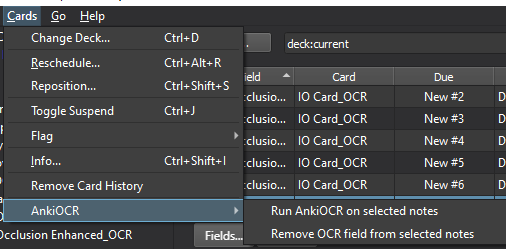
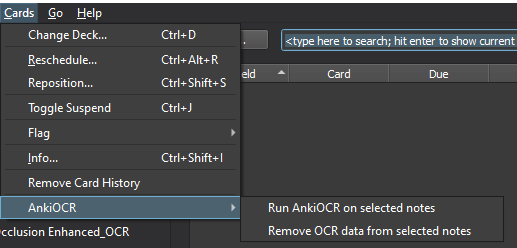
V0.3.0 update to use new ocr data output to tooltip

diff --git a/docs/AnkiWeb_README.html b/docs/AnkiWeb_README.html
@@ -4,8 +4,6 @@ Anki 2.1 addon to generate OCR text from images inside of Anki notes/cards. <b>N
 
 The aim of this addon was to generate searchable text for image-heavy notes, it is not intended to produce high quality, perfectly ordered text!
 
-Note that because this addon changes the note template, you will see a warning about changing the database and uploading to AnkiWeb. This is normal.
-
 <b> Features </b>
 <ul>
     - Convert many notes at once
@@ -44,11 +42,11 @@ This program is distributed in the hope that it will be useful but WITHOUT ANY W
 
 <img src="https://raw.githubusercontent.com/cfculhane/AnkiOCR/master/docs/menu.png">
 
-3. After processing, the notes will be updated with an additional 'OCR' field with the extracted text, example below:
+3. After processing, each of the images in the note will have the ocr data embedded in the `title` html tag, viewable as a tooltip:
 
-<img src="https://raw.githubusercontent.com/cfculhane/AnkiOCR/master/docs/update_field.png">
+<img src="https://raw.githubusercontent.com/cfculhane/AnkiOCR/master/docs/text_tooltip.png">
 
-4. If you want to remove the OCR field from any notes, select them and then use the "Remove OCR field from selected notes" option in the menu shown above
+4. If you want to remove the OCR data from any notes, select them and then use the "Remove OCR data from selected notes" option in the menu shown above
 
 <b> Known issues</b>
 <ul>
@@ -59,6 +57,11 @@ This program is distributed in the hope that it will be useful but WITHOUT ANY W
 
 <b> Changelog </b>
 <ul>
+    - 0.3.0 - 2020-10-06
+        - New method for storing the ocr text, now stores it in title attr of the img html tag
+        - Handle old verions of Anki not having different progressbar.update()
+    - 0.2.6 - 2020-10-06
+        - Handle old verions of Anki not having different progressbar.update()
     - 0.2.5 - 2020-10-06
         - Add alternate import method for Collection due to API changes in Anki
     - 0.2.4 - 2020-10-05

diff --git a/anki_ocr/ocr.py b/anki_ocr/ocr.py
@@ -1,12 +1,9 @@
 import logging
 import platform
-import re
 import sys
 from copy import deepcopy
 from pathlib import Path
 from typing import Dict, Sequence, Optional, List
-
-import anki
 
 try:
     from anki.collection import Collection
@@ -22,13 +19,18 @@ else:  # anki.exe or equivalent
     ANKI_ENV = True
     print("Running in anki")
 
+SCRIPT_DIR = Path(__file__).parent
+DEPS_DIR = SCRIPT_DIR / "deps"
+
 if ANKI_ENV is False:
+    sys.path.append(SCRIPT_DIR)
     ProgressManager = None
     import pytesseract
     from PIL import Image
     from reportlab.graphics import renderPM
     from svglib.svglib import svg2rlg
     from tqdm import tqdm
+    from .html_parser import FieldHTMLParser
 
 else:
     from aqt.progress import ProgressManager
@@ -38,13 +40,10 @@ else:
     renderPM = None
     svg2rlg = None
     from .utils import tqdm_null_wrapper as tqdm
+    from .html_parser import FieldHTMLParser
 
-SCRIPT_DIR = Path(__file__).parent
-DEPS_DIR = SCRIPT_DIR / "deps"
-
-logging_format = "%(asctime)s - %(name)s - %(levelname)s - %(message)s"
-logging.basicConfig(format=logging_format, level=logging.INFO)
 logger = logging.getLogger(__name__)
+FIELD_PARSER = FieldHTMLParser()
 
 
 class OCR:
@@ -62,43 +61,41 @@ class OCR:
         assert text_output_location in ["tooltip", "new_field"]
         self.text_output_location = text_output_location
 
-    def get_images_from_note(self, note):
-        pattern = r'(?:<img src=")(.*?)(?:"(?:>|\B))'
+    @staticmethod
+    def get_images_from_note(note):
         images = {}
         for field_name, field_content in note.items():
-            img_fnames = re.findall(pattern, field_content)
-            for img_fname in img_fnames:
-                images[Path(img_fname).stem] = {"path": Path(self.media_dir, img_fname),
-                                                "field": field_name}
+            images[field_name] = FIELD_PARSER.parse_images(field_content)
         return images
 
     def process_imgs(self, images: Dict):
-        for img_name, img_data in images.items():
-            logger.debug(f"Processing {img_data['path']} from field {img_data['field']}")
-            if img_data["path"].suffix == ".svg":
-                if ANKI_ENV is True:
-                    # TODO attempt to vendorize reportlab, svglib
-                    img_data["text"] = ""
-                    continue
+        for field_name, field_images in images.items():
+            for img_name, img_data in field_images.items():
+                logger.debug(f"Processing {img_name} from field {field_name}")
+                img_path = Path(self.media_dir, img_data["src"])
+                if img_path.suffix == ".svg":
+                    if ANKI_ENV is True:
+                        # TODO attempt to vendorize reportlab, svglib
+                        img_data["text"] = ""
+                        continue
+                    else:
+                        svg_draw = svg2rlg(str(img_path.absolute()))
+                        renderPM.drawToFile(svg_draw, "temp.png", fmt="PNG")
+                        img = Image.open("temp.png")
                 else:
-                    svg_draw = svg2rlg(str(img_data["path"].absolute()))
-                    renderPM.drawToFile(svg_draw, "temp.png", fmt="PNG")
-                    img = Image.open("temp.png")
-            else:
-                # img = Image.open(img_data["path"])
-                img = str(img_data["path"].absolute())
+                    # img = Image.open(img_path)
+                    img = str(img_path.absolute())
 
-            ocr_result = pytesseract.image_to_string(img, lang="+".join(self.languages))
-            ocr_result = "\n".join([line.strip() for line in ocr_result.splitlines() if line.strip() != ""])
-            img_data["text"] = ocr_result
+                ocr_result = pytesseract.image_to_string(img, lang="+".join(self.languages))
+                ocr_result = "\n".join([line.strip() for line in ocr_result.splitlines() if line.strip() != ""])
+                img_data["text"] = ocr_result
         return images
 
     @staticmethod
     def add_imgdata_to_note(note: Note, images: Dict, method="tooltip"):
         if method == "tooltip":
-            for img_name, img_data in images.items():
-                note[img_data["field"]] = note[img_data["field"]].replace(
-                    f'"{img_data["path"].name}"', f'"{img_data["path"].name}" title="{img_data["text"]}"')
+            for field_name, field_images in images.items():
+                note[field_name] = FIELD_PARSER.insert_ocr_text(images=field_images, field_text=note[field_name])
         elif method == "new_field":
             note["OCR"] = ""
             for img_name, img_data in images.items():
@@ -167,6 +164,11 @@ class OCR:
         # TODO Change this to process multiple note IDs at once?
         note = self.col.getNote(note_id)
         ocr_model = note.model()
+        images = self.get_images_from_note(note)
+        for field_name, field_text in note.items():
+            note[field_name] = FIELD_PARSER.remove_ocr_text(images[field_name], field_text)
+        note.flush()
+
         if self.is_OCR_note(note) is False:
             logger.info("Note is already NOT an OCR-type, no need to undo the conversion")
             return note
@@ -193,7 +195,11 @@ class OCR:
         # tqdm_out = TqdmToLogger(logger, level=logging.INFO)
         for i, note_id in tqdm(enumerate(note_ids), desc=f"Processing notes", total=len(note_ids)):
             if self.progress is not None:
-                self.progress.update(value=i, max=len(note_ids))
+                try:
+                    self.progress.update(value=i, max=len(note_ids))
+                except TypeError:  # old version of Qt/Anki
+                    pass
+
             note = self.col.getNote(note_id)
             if self.is_OCR_note(note) is True and overwrite_existing is False:
                 logger.info(f"Note id {note_id} is already processd. Set overwrite_existing=True to force reprocessing")
@@ -224,7 +230,7 @@ class OCR:
         # self.col.modSchema(check=True)
         self.ocr_process(note_ids=note_ids, overwrite_existing=overwrite_existing)
         self.col.reset()
-        logger.info("Databased saved and closed")
+        logger.info("Databased saved")
 
     def run_ocr_on_notes(self, note_ids: List[int], overwrite_existing=True):
         """ Main method for the ocr class. Runs OCR on a sequence of notes returned from a collection query.
@@ -255,23 +261,3 @@ class OCR:
 
         platform_name = platform.system()  # E.g. 'Windows'
         return exec_data[platform_name], platform_name
-
-
-# %%
-if __name__ == '__main__':
-    # Not to be run inside Anki
-    PROFILE_HOME = Path(r"C:\GitHub\anki\User 1")
-    cpath = PROFILE_HOME / "collection.anki2"
-    try:
-        collection = Collection(str(cpath), log=True)  # Collection is locked from here on
-    except anki.rsbackend.DBError:
-        print("Anki collection already open, attempting to continue")
-
-    ocr = OCR(col=collection)
-    QUERY = "tag:RG::MS::RG4.00_Lab"
-    QUERY = "tag:OCR"
-    # QUERY = ""
-    # ocr.run_ocr_on_query(QUERY)
-    # collection.close(save=True)
-    # note_ids_c = collection.findNotes(QUERY)
-    # ocr.remove_ocr_on_notes(note_ids_c)

diff --git a/anki_ocr/gui.py b/anki_ocr/gui.py
@@ -1,4 +1,4 @@
-# import the main window object (mw) from aqt
+import logging
 
 from anki.hooks import addHook
 from aqt import mw
@@ -9,34 +9,34 @@ from aqt.utils import showInfo, askUser, showCritical
 from ._vendor import pytesseract
 from .ocr import OCR
 
-# We're going to add a menu item below. First we want to create a function to
-# be called when the menu item is activated.
-CONFIG = mw.addonManager.getConfig(__name__)
+logger = logging.getLogger(__name__)
 
 
 def on_run_ocr(browser: Browser):
     selected_nids = browser.selectedNotes()
     num_notes = len(selected_nids)
+    config = mw.addonManager.getConfig(__name__)
     if num_notes == 0:
         showInfo("No cards selected.")
         return
     elif askUser(f"Are you sure you wish to run OCR processing on {num_notes} notes?") is False:
         return
 
-    if CONFIG.get("tesseract_install_valid") is not True:
+    if config.get("tesseract_install_valid") is not True and config.get("text_output_location") == "new_field":
         showInfo(
             f"Note that because this addon changes the note template, you will see a warning about changing the database and uploading to AnkiWeb. \n"
             f"This is normal, and will be shown each time you modify a note template.\n"
             f"This message will be only be shown once.")
-        CONFIG["tesseract_install_valid"] = True
-        mw.addonManager.writeConfig(__name__, CONFIG)
+        mw.addonManager.writeConfig(__name__, config)
+
+    config["tesseract_install_valid"] = True  # Stop the above msg appearing multiple times
 
     progress = mw.progress
-    ocr = OCR(col=mw.col, progress=progress, languages=CONFIG["languages"])
+    ocr = OCR(col=mw.col, progress=progress, languages=config["languages"])
     progress.start(immediate=True, min=0, max=num_notes)
     try:
         ocr.run_ocr_on_notes(note_ids=selected_nids,
-                             overwrite_existing=CONFIG["overwrite_existing"])
+                             overwrite_existing=config["overwrite_existing"])
         progress.finish()
         showInfo(f"Processed OCR for {num_notes} cards")
 
@@ -55,6 +55,7 @@ def on_run_ocr(browser: Browser):
 
 
 def on_rm_ocr_fields(browser: Browser):
+    config = mw.addonManager.getConfig(__name__)
     selected_nids = browser.selectedNotes()
     num_notes = len(selected_nids)
     if num_notes == 0:
@@ -65,7 +66,7 @@ def on_rm_ocr_fields(browser: Browser):
 
     progress = mw.progress
     progress.start(immediate=True)
-    ocr = OCR(col=mw.col, progress=progress, languages=CONFIG["languages"])
+    ocr = OCR(col=mw.col, progress=progress, languages=config["languages"])
     ocr.remove_ocr_on_notes(note_ids=selected_nids)
     mw.progress.finish()
     browser.model.reset()
@@ -80,7 +81,7 @@ def on_menu_setup(browser: Browser):
     act_run_ocr.triggered.connect(lambda b=browser: on_run_ocr(browser))
     anki_ocr_menu.addAction(act_run_ocr)
 
-    act_rm_ocr_fields = QAction(browser, text="Remove OCR field from selected notes")
+    act_rm_ocr_fields = QAction(browser, text="Remove OCR data from selected notes")
     act_rm_ocr_fields.triggered.connect(lambda b=browser: on_rm_ocr_fields(browser))
     anki_ocr_menu.addAction(act_rm_ocr_fields)
 

diff --git a/anki_ocr/html_parser.py b/anki_ocr/html_parser.py
@@ -1,0 +1,49 @@
+import logging
+from pathlib import Path
+
+from bs4 import BeautifulSoup
+
+logger = logging.getLogger(__name__)
+
+
+class FieldHTMLParser:
+    def __init__(self):
+        pass
+
+    def parse_images(self, field_text):
+        soup = BeautifulSoup(field_text, "html.parser")
+        images = {}
+        for img in soup.find_all("img"):
+            fname = Path(img["src"]).stem
+            images[fname] = img.attrs
+        return images
+
+    def insert_ocr_text(self, images, field_text):
+        soup = BeautifulSoup(field_text, "html.parser")
+        for img_name, img_data in images.items():
+            html_tags = soup.find_all(name="img", attrs={"src": img_data["src"]})
+            for html_tag in html_tags:
+                html_tag.attrs["title"] = img_data["text"]
+        return str(soup)
+
+    def remove_ocr_text(self, images, field_text):
+        soup = BeautifulSoup(field_text, "html.parser")
+        for img_name, img_data in images.items():
+            html_tags = soup.find_all(name="img", attrs={"src": img_data["src"]})
+            for html_tag in html_tags:
+                if html_tag.attrs.get("title") is not None:
+                    del html_tag.attrs["title"]
+        return str(soup)
+
+
+
+
+if __name__ == '__main__':
+    parser = FieldHTMLParser()
+    p_field_text = 'This is some extra text with an image below<div><img src="tmp3zud1urq.png"><br></div>'
+    p_images = parser.parse_images(p_field_text)
+    for img in p_images.values():
+        img["text"] = 'Lateral and Medial divisions\nTract\nLATERAL\n- Lateral corticospinal\n- Rubrospinal\nMEDIAL\n- Tecto-, vestibulospinal\n- Reticulospinal\n- Anterior corticospinal\nFunction\nFine control of distal musculature\nPrimary p/w for voluntary limb movements esp. precise\nmovements of hand and fingers\nBackup for corticospinal tract, movement velocity, learned\nmovements\nControl of axial and proximal musculature\nKeep head balanced on shoulders as the body navigates\nthrough space and head turns to stimuli\nModulate anti-gravity reflexes of the spinal cord; automatic\nposture and gait\nControl of trunk'
+    modified_field = parser.insert_ocr_text(p_images, p_field_text)
+    removed_field = parser.remove_ocr_text(p_images, p_field_text)
+

diff --git a/run_ocr.py b/run_ocr.py
@@ -1,0 +1,28 @@
+import logging
+from pathlib import Path
+
+from anki import Collection
+from anki.rsbackend import DBError
+from anki_ocr.ocr import SCRIPT_DIR, OCR
+
+if __name__ == '__main__':
+    logging_format = "%(asctime)s - %(name)s - %(levelname)s - %(message)s"
+    logging.basicConfig(format=logging_format, level=logging.INFO)
+    # Not to be run inside Anki
+    PROFILE_HOME = Path(SCRIPT_DIR.parent, "tests/User 1")
+    cpath = PROFILE_HOME / "collection.anki2"
+
+    try:
+        collection = Collection(str(cpath), log=True)  # Collection is locked from here on
+    except DBError:
+        pass
+
+    ocr = OCR(col=collection)
+    QUERY = "tag:RG::MS::RG4.00_Lab"
+    QUERY = "tag:OCR"
+    # QUERY = ""
+    ocr.run_ocr_on_query(QUERY)
+    # collection.close(save=True)
+    note_ids_c = collection.findNotes(QUERY)
+    example_note = collection.getNote(note_ids_c[0])
+    # ocr.remove_ocr_on_notes(note_ids_c)

diff --git a/anki_ocr/__init__.py b/anki_ocr/__init__.py
@@ -6,4 +6,4 @@ from . import gui
 
 gui.create_menu()
 
-__version__ = "0.2.5"
+__version__ = "0.3.0"

diff --git a/README.md b/README.md
@@ -14,11 +14,13 @@ Note that because this addon changes the note template, you will see a warning a
 
 ![docs/menu.png](docs/menu.png) 
 
-3. After processing, the notes will be updated with an additional 'OCR' field with the extracted text, example below:
+3. After processing, each of the images in the note will have the ocr data embedded in the `title` html tag, viewable as a tooltip:
 
-![docs/update_field.png](docs/update_field.png) 
+![docs/text_tooltip.png](docs/text_tooltip.png) 
 
-4. If you want to remove the OCR field from any notes, select them and then use the "Remove OCR field from selected notes" option in the menu shown above
+4. If you want to remove the OCR data from any notes, select them and then use the "Remove OCR data from selected notes" option in the menu shown above
+
+If you wish to have the OCR data outputted to a seperate 'OCR' field on the note, which will modify your note types in your deck, you can set the `text_output_location` config option to `new_field`
 
 ## Installation
 

diff --git a/CHANGELOG.md b/CHANGELOG.md
@@ -1,3 +1,7 @@
+## 0.3.0 - 2020-10-06
+- New method for storing the ocr text, now stores it in `title` attr of the img html tag
+- Handle old verions of Anki not having different progressbar.update()
+
 ## 0.2.5 - 2020-10-06
 
 - Add alternate import method for Collection due to API changes in Anki
